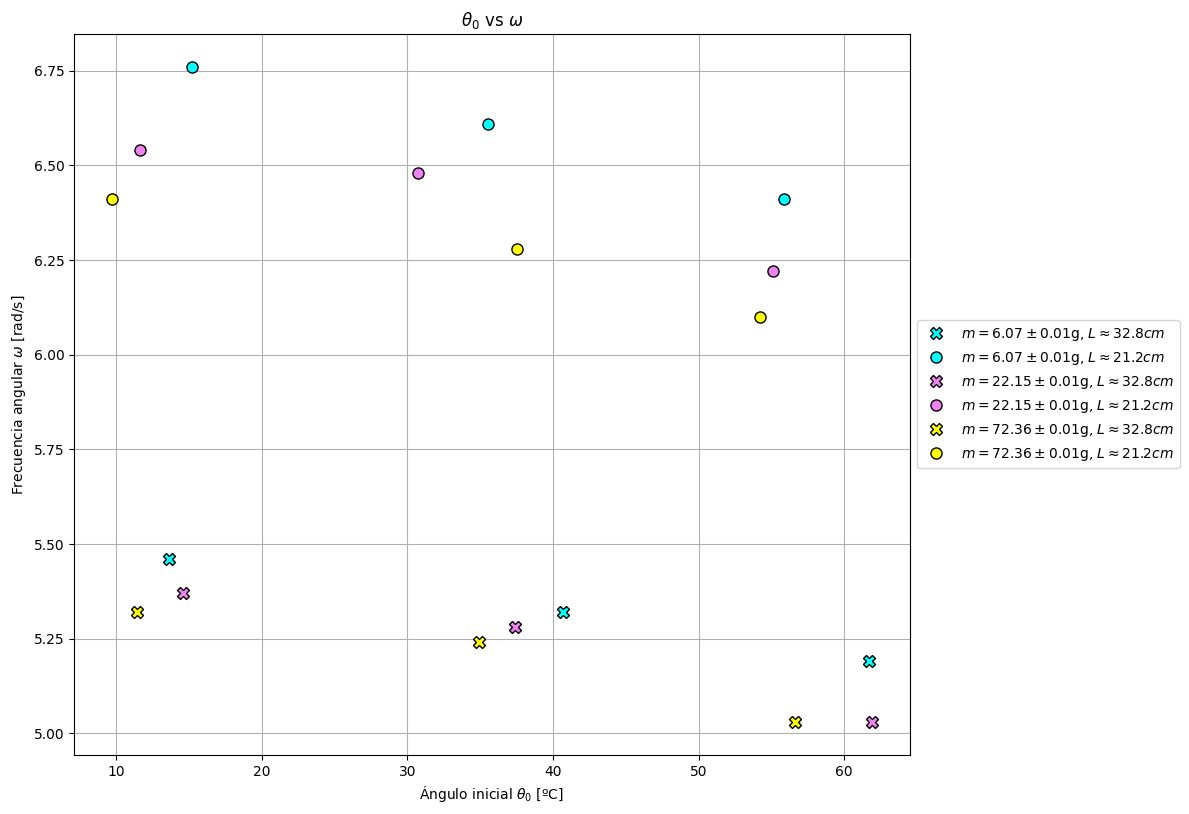
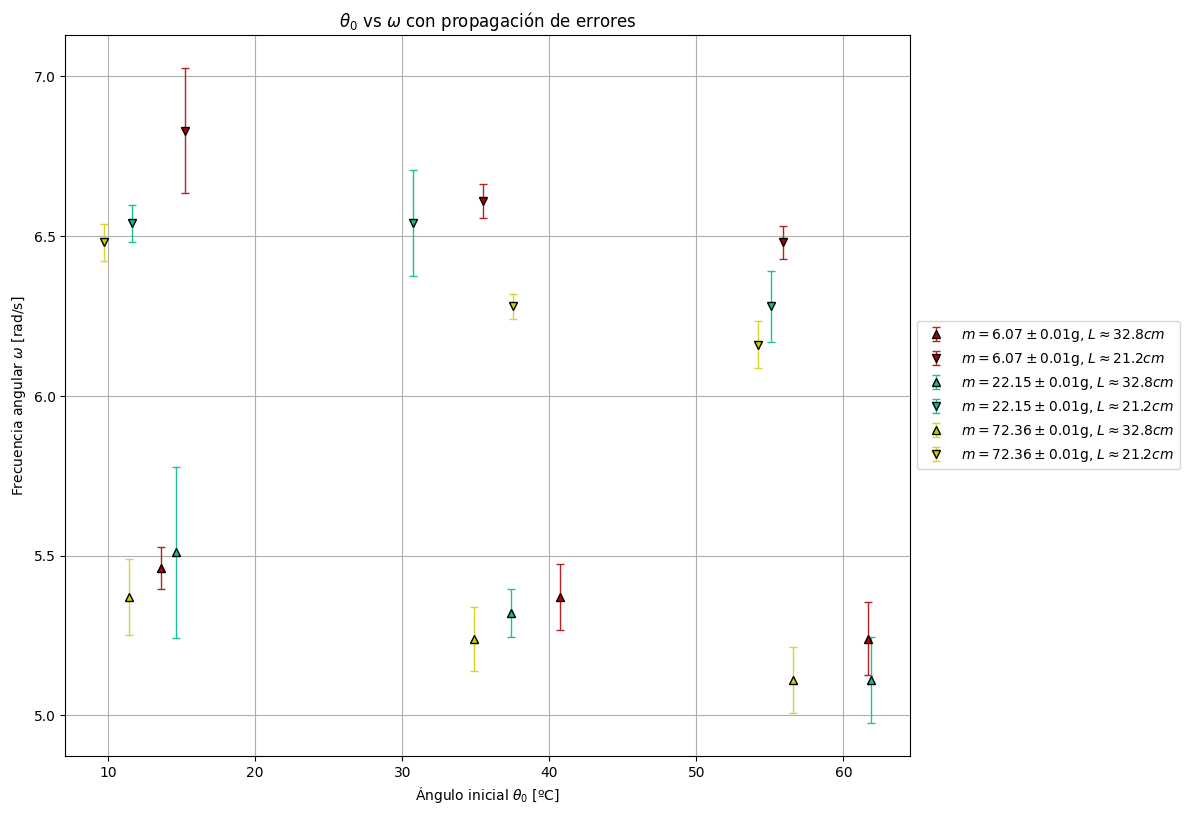
Gráficos actualizados

diff --git a/Code/graphs.py b/Code/graphs.py
@@ -14,42 +14,51 @@ m2 = [df for df in DF if df.m == 22.15]
 m3 = [df for df in DF if df.m == 72.36]
 dfM = [m1,m2,m3]
 
-#### [1] (Información general)
+#### [1] ω vs θ inicial con propagación de errores
 ##### ω en función de θ inicial
 
-def AngleVsAngular():
+def angleVsAngular():
     plt.figure(figsize=(12,8))
 
     col = { 
-        6.07 : 'cyan',
-        22.15 : 'violet',
-        72.36 : 'yellow'
+        6.07 : "#b00000",
+        22.15 : "#17bc96",
+        72.36 : "#cfcc0c"
+    }
+
+    ecol = {
+        6.07 : "#B52121",
+        22.15 : "#19c29a",
+        72.36 : "#d9d626"
     }
 
     for m0 in dfM:
         x1 = [max(df['θ']) for df in m0 if df['r'][0] >= 30]
-        y1 = [angularFreq(df, df.period) for df in m0 if df['r'][0] >= 30]
+        y1 = [df.w for df in m0 if df['r'][0] >= 30]
+        err1 = [df.angularError for df in m0 if df['r'][0] >= 30]
 
         x2 = [max(df['θ']) for df in m0 if df['r'][0] < 30]
-        y2 = [angularFreq(df, df.period) for df in m0 if df['r'][0] < 30]
+        y2 = [df.w for df in m0 if df['r'][0] < 30]
+        err2 = [df.angularError for df in m0 if df['r'][0] < 30]
 
         mass = m0[0].m
         label1 = rf'$m = {mass} \pm 0.01$g, $L \approx 32.8cm$'
         label2 = rf'$m = {mass} \pm 0.01$g, $L \approx 21.2cm$'
 
-        plt.plot(x1,y1, 'X', label=label1, markersize=8, color=col[mass], markeredgecolor='black')
-        plt.plot(x2,y2, 'o', label=label2, markersize=8, color=col[mass], markeredgecolor='black')
+        plt.errorbar(x1,y1, err1, fmt='^', label=label1, markersize=6, color=col[mass], markeredgecolor='black', ecolor=ecol[mass], elinewidth=1, capsize=3)
+        plt.errorbar(x2,y2, err2, fmt='v', label=label2, markersize=6, color=col[mass], markeredgecolor='black', ecolor=ecol[mass], elinewidth=1, capsize=3)
 
     plt.xlabel(r"Ángulo inicial $\theta_0$ [ºC]")
     plt.ylabel(r"Frecuencia angular $\omega$ [rad/s]")
     plt.grid(True)
     plt.legend(loc='center left', bbox_to_anchor=(1, 0.5))
     plt.tight_layout()
-    plt.title(r"$\theta_0$ vs $\omega$")
+    plt.title(r"$\theta_0$ vs $\omega$ con propagación de errores")
 
-    plt.savefig("../Graphs/AngleVsAngularFreq.png", bbox_inches='tight')
+    plt.savefig("../Graphs/AngleVsAngularFreq2.png", bbox_inches='tight')
 
-##### [2]
+
+##### [2] Variación de ω con el largo 
 ##### m, θ constantes: L1, L2, L3 
 
 def differentLenght():
@@ -66,8 +75,12 @@ def differentLenght():
     plt.legend()
     plt.savefig("../Graphs/differentLength.png", bbox_inches='tight')
 
-def plot_trajectories_grid():
-    # Usar solo los primeros 18 CSVs
+##### [3] Todas las trayectorias
+##### θ(t)
+
+def trajectoriesGrid():
+    colors = [ "#b0009e", "#1772bc", "#0ccf43"]
+    
     DF_sub = DF[:18]
     
     masses = [6.07, 22.15, 72.36]
@@ -75,7 +88,7 @@ def plot_trajectories_grid():
     markers = ['o', 's', '^']
     
     fig, axs = plt.subplots(3, 2, figsize=(14, 12), sharex=True, sharey=True)
-    fig.suptitle("Trayectorias angulares (θ vs t)", fontsize=16)
+    fig.suptitle(r"Trayectorias angulares ($\theta$ vs $t$)", fontsize=16)
 
     for i, m in enumerate(masses):
         df_mass = [df for df in DF_sub if df.m == m]
@@ -91,31 +104,33 @@ def plot_trajectories_grid():
             for k, df in enumerate(long_group):
                 style = styles[k % len(styles)]
                 marker = markers[k % len(markers)]
+                col = colors[k % len(colors)]
                 label = fr"$\theta_0 \approx {max(df['θ']):.1f}$°"
 
                 ax.plot(df['t'], df['θ'], linestyle=style, marker=marker,
-                        label=label, markevery=15)
+                        label=label, markevery=15, color=col)
 
             title = "Larga" if j == 0 else "Corta"
-            ax.set_title(f"m = {m} g, L {title}")
+            ax.set_title(rf"$m$ = {m} g, $L$ {title}")
             ax.grid(True)
             if j == 0:
-                ax.set_ylabel(r"$\theta(t)$°")
+                ax.set_ylabel(r"$\theta(t)$ [$°C$]")
             if i == 2:
-                ax.set_xlabel("Tiempo [s]")
+                ax.set_xlabel(r"Tiempo [$s$]")
             ax.legend(fontsize=8)
 
-    plt.tight_layout(rect=[0, 0, 1, 0.96])
-    plt.savefig("../Graphs/Trajectories_Grid.png", bbox_inches='tight')
+    plt.tight_layout()
+    plt.savefig("../Graphs/TrajectoriesGrid.png", bbox_inches='tight')
 
-###### [3] L vs ω y m vs ω
+###### [3] ω 
+###### L vs ω y m vs ω
 
-def omega_vs_m_and_L_grados():
+def angularVsMassLarge():
     w = [angularFreq(df.assign(θ=np.deg2rad(df['θ'])), df.period) for df in DF]
     m = [df.m for df in DF]  # masa en gramos
     l = [radius(df) for df in DF]  # longitud en cm
 
-    fig, axs = plt.subplots(1, 2, figsize=(14, 6))
+    _, axs = plt.subplots(1, 2, figsize=(14, 6))
 
     # ω vs masa
     axs[0].plot(m, w, 'o', color='blue', markeredgecolor='black')
@@ -134,14 +149,15 @@ def omega_vs_m_and_L_grados():
     plt.tight_layout()
     plt.savefig("../Graphs/OmegaVsMasaYLongitud.png")
 
-###### [4]  
+###### [4] Máximos y ajuste lineal
+###### θ(t)
 
-def plot_grid_maximos_con_fit():
+def gridMaxLinealRegression():
     masas = [6.07, 22.15, 72.36]
     largos_labels = ['Long. Mayor', 'Long. Menor']
 
     fig, axs = plt.subplots(3, 2, figsize=(16, 14), sharex=True, sharey=True)
-    fig.suptitle(r"Amplitud de oscilacion de $\theta(t)$° con ajuste lineal", fontsize=18)
+    fig.suptitle(r"Amplitud de oscilacion de $\theta(t)$° con ajuste lineal", fontsize=19)
 
     for i, m in enumerate(masas):
         dfs_masa = [df for df in DF if df.m == m]
@@ -168,27 +184,27 @@ def plot_grid_maximos_con_fit():
                 color = colores[k % len(colores)]
                 
                 # Plot curva original sin marker, solo línea
-                ax.plot(t, theta, '-', color=color, label=f'θ₀ ≈ {max(theta):.1f}°')
+                ax.plot(t, theta, '-', color=color, label=rf'$\theta_0 \approx$ {max(theta):.1f}°')
 
                 # Plot máximos como puntos X (sin marker en curva, solo aquí)
                 ax.plot(t_peaks, theta_peaks, color=color, marker="o", markersize=8, linestyle='None',
-                        label=f'Máximos θ₀ ≈ {max(theta):.1f}°')
+                        label=rf'Máximos $\theta_0 \approx$ {max(theta):.1f}°')
 
                 # Ajuste lineal a los máximos
                 if len(t_peaks) > 1:
-                    slope, intercept, r_value, p_value, std_err = linregress(t_peaks, theta_peaks)
+                    slope, intercept, _, _, _ = linregress(t_peaks, theta_peaks)
                     t_fit = np.linspace(t_peaks.min(), t_peaks.max(), 100)
                     theta_fit = slope * t_fit + intercept
                     ax.plot(t_fit, theta_fit, linestyle='--', color=color,
-                            label=f'Ajuste max θ₀ ≈ {max(theta):.1f}°')
+                            label=rf'Ajuste max $\theta_0 \approx${max(theta):.1f}°')
 
-            ax.set_title(f'Masa = {m} g, {largos_labels[j]}')
+            ax.set_title(rf'$m$ = {m} g, {largos_labels[j]}')
             ax.grid(True)
             if j == 0:
-                ax.set_ylabel(r'Ángulo θ [°]')
+                ax.set_ylabel(r'Ángulo $\theta$ [°]')
             if i == 2:
-                ax.set_xlabel('Tiempo [s]')
-            ax.legend(fontsize=8)
+                ax.set_xlabel(r'Tiempo [$s$]')
+            ax.legend(fontsize=7)
 
-    plt.tight_layout(rect=[0, 0, 1, 0.95])
+    plt.tight_layout()
     plt.savefig("../Graphs/MaximosConFit.png")

diff --git a/Code/calcs.py b/Code/calcs.py
@@ -22,25 +22,40 @@ for i in range(19,22):
 ############################## Calculos generales #############################
 
 def period(df: pd.DataFrame):
-    ''' T = t[θmax2] - t[θmax1] '''
+    ''' 
+    T = t[θmax2] - t[θmax1] 
+    Devuelve el promedio de todos los periodos encontrados y el desvío estandar
+    '''
 
-    maxs, _ = signal.find_peaks(df["θ"]) # Encuentra picos del ángulo encuentro 2 θmax
+    maxs, _ = signal.find_peaks(df["θ"], prominence=1, distance=10) # Encuentra picos del ángulo encuentro 2 θmax
+
+    if df["θ"].iloc[0] > df["θ"].iloc[1]: # Si el primero es un pico
+        maxs = np.insert(maxs, 0, 0)
+    
     periods = []
     for i in range(len(maxs)-1):
         t1 = df["t"].iloc[maxs[i+1]]
         t0 = df["t"].iloc[maxs[i]]
         periods.append(t1-t0)  
-    return round(np.mean(periods), 2)
-
-def angularFreq(df: pd.DataFrame, t: float):
-    ''' ω = 2π / T '''
     
-    return round((2*np.pi) / t, 2)
+    return round(np.mean(periods), 2), np.std(periods)
 
-def oscilationFreq(df: pd.DataFrame, t: float):
+def angularFreq(df: pd.DataFrame):
+    ''' 
+    ω = 2π / T
+    δω = (-2π / T^2) * δT
+    '''
+    
+    w = (2 * np.pi) / df.period
+
+    wError = np.abs(((-2 * np.pi) / df.period**2) * df.periodError)
+
+    return round(w, 2), wError
+
+def oscilationFreq(df: pd.DataFrame):
     ''' f = 1 / T '''
 
-    return round(1/t, 2) 
+    return round(1/df.period, 2) 
 
 def radius(df: pd.DataFrame):
     return round(np.mean(df["r"]), 2)
@@ -67,15 +82,14 @@ def oscilationFreqSO(df: pd.DataFrame):
 
 ############### Cargo valores T, ω, f
 
-for df in DF:
-        df.period = period(df)
-        df.w = angularFreq(df, df.period)
-        df.f = oscilationFreq(df, df.period)
-
-for df2 in DF2:
-        df2.period = period(df2)
-        df2.w = angularFreq(df2, df2.period)
-        df2.f = oscilationFreq(df2, df2.period)
+for df in DF+DF2:
+        T, errorT = period(df)
+        df.period = T
+        df.periodError = errorT
+        W, errorW = angularFreq(df)
+        df.w = W
+        df.angularError = errorW
+        df.f = oscilationFreq(df)
 
 ############### Cálculos varios
 
@@ -87,5 +101,6 @@ def estimateGravity():
     return round(np.mean(samples), 2), samples
 
 if __name__ == '__main__':
-    print(estimateGravity()[0])
-
+    for i, df in enumerate(DF):
+        print(f'{i+1}. dT->', df.periodError)
+        print(f'{i+1}. dw->', df.angularError)

diff --git a/Code/main.py b/Code/main.py
@@ -1,4 +1,4 @@
-from graphs import AngleVsAngular, differentLenght, plot_grid_maximos_con_fit
+from graphs import angleVsAngular, differentLenght, trajectoriesGrid, gridMaxLinealRegression, angularVsMassLarge
 
 if __name__ == '__main__':
-    plot_grid_maximos_con_fit()
+    trajectoriesGrid()

diff --git a/README.md b/README.md
@@ -1,2 +1,3 @@
 # HACER
 
+- Agregar errores/incertidumbres en los gráficos como la figura 3
